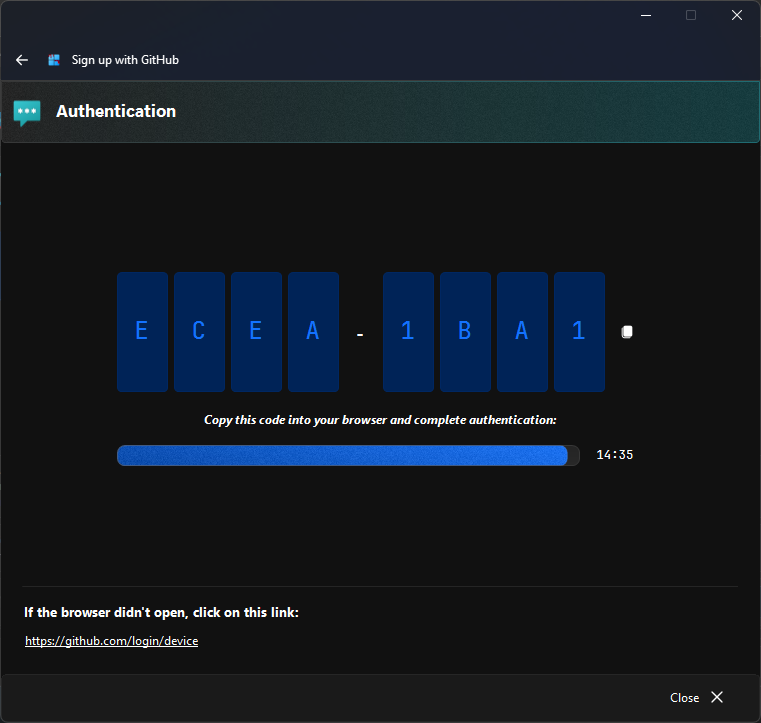
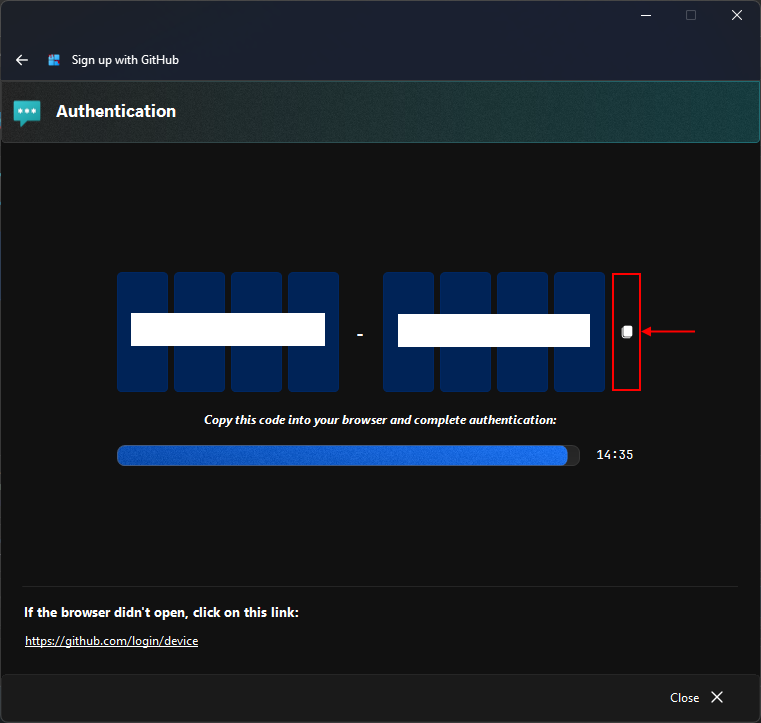
1.0.9.8

diff --git a/WinPaletter.Wiki/Sign-Up-GitHub.md b/WinPaletter.Wiki/Sign-Up-GitHub.md
@@ -120,20 +120,42 @@ After successful authentication:
 |Method 1|Method 2|
 |--------|--------|
 | Click on users button in main form and start sign up process | Open WinPaletter Store for themes, Click on users button in main form and start sign up process|
-|![Main](https://github.com/Abdelrhman-AK/WinPaletter/blob/master/WinPaletter.Wiki/Assets/ColorControlShape/shape.png?raw=true)
-|   |
+|![Main](https://github.com/Abdelrhman-AK/WinPaletter/blob/master/WinPaletter.Wiki/Assets/GitHub_SignUp/MainForm_User.png?raw=true) ![UsersDashboard](https://github.com/Abdelrhman-AK/WinPaletter/blob/master/WinPaletter.Wiki/Assets/GitHub_SignUp/Users_Dashboard.png?raw=true) | ![Store](https://github.com/Abdelrhman-AK/WinPaletter/blob/master/WinPaletter.Wiki/Assets/GitHub_SignUp/Store_UsersDashboard.png?raw=true) |
 
 2. Read the terms and click on `Sign up`
 3. Wait until a browser instance starts
+![Wait](https://github.com/Abdelrhman-AK/WinPaletter/blob/master/WinPaletter.Wiki/Assets/GitHub_SignUp/SignUp_Wait.png?raw=true)
 4. Select your targer account
+![SelectAccount](https://github.com/Abdelrhman-AK/WinPaletter/blob/master/WinPaletter.Wiki/Assets/GitHub_SignUp/Browser_ChooseAccount.png?raw=true)
+
 5. GitHub will require a code, it is provided by WinPaletter, copy it from this button.
+![AuthCode](https://github.com/Abdelrhman-AK/WinPaletter/blob/master/WinPaletter.Wiki/Assets/GitHub_SignUp/SignUp_AuthCode.png?raw=true)
+
 6. Paste it in browser and continue
 7. Read info and continue
+![Terms](https://github.com/Abdelrhman-AK/WinPaletter/blob/master/WinPaletter.Wiki/Assets/GitHub_SignUp/Browser_Auth.png?raw=true)
+
 8. `Optional` If you are protecting your account by 2-Factor Authentication, enter its code and continue.
+![2FA](https://github.com/Abdelrhman-AK/WinPaletter/blob/master/WinPaletter.Wiki/Assets/GitHub_SignUp/Browser_2FA.png?raw=true)
+
 9. Finally, your browser will tell you that you are connected and so WinPaletter.
+![Success](https://github.com/Abdelrhman-AK/WinPaletter/blob/master/WinPaletter.Wiki/Assets/GitHub_SignUp/Browser_Success.png?raw=true)
+![Success](https://github.com/Abdelrhman-AK/WinPaletter/blob/master/WinPaletter.Wiki/Assets/GitHub_SignUp/SignUp_Success.png?raw=true)
+
 10. You will find user name and avatar visible in Main form, an indication of loggin in.
+![MainFormAvatar](https://github.com/Abdelrhman-AK/WinPaletter/blob/master/WinPaletter.Wiki/Assets/GitHub_SignUp/MainForm_LoggedIn.png?raw=true)
+
 11. Evreytime you open WinPaletter, it will sign in automatically using credentials saved in Windows Credentials.
 
 ---
 
 ## Sign out:
+
+1. You can start by one method of these to sign out:
+
+|Method 1|Method 2|
+|--------|--------|
+| Click on users button in main form and start sign out process | Open WinPaletter Store for themes, Click on users button in main form and start sign out process|
+|![MainFormAvatar](https://github.com/Abdelrhman-AK/WinPaletter/blob/master/WinPaletter.Wiki/Assets/GitHub_SignUp/MainForm_LoggedIn.png?raw=true) ![UsersDashboard](https://github.com/Abdelrhman-AK/WinPaletter/blob/master/WinPaletter.Wiki/Assets/GitHub_SignUp/Users_Dashboard_SignOut.png?raw=true) | ![Store](https://github.com/Abdelrhman-AK/WinPaletter/blob/master/WinPaletter.Wiki/Assets/GitHub_SignUp/Store_UsersDashboard_SignOut.png?raw=true) |
+
+2. That is it. Windows credentials removed your GitHub account. A browser will open with a page that revokes access. Revoke WinPaletter manually.

diff --git a/WinPaletter.Wiki/_Sidebar.md b/WinPaletter.Wiki/_Sidebar.md
@@ -38,7 +38,7 @@
 - [For Developers](https://github.com/Abdelrhman-AK/WinPaletter/wiki/WinPaletter-Store-Developers)
 
 ## GitHub Manager (Within WinPaletter)
-- [Introduction](https://github.com/Abdelrhman-AK/WinPaletter/wiki/GitHub-Manager-‐-Introduction)
+- [Introduction](https://github.com/Abdelrhman-AK/WinPaletter/wiki/GitHub-Manager--Introduction)
 - Sign in\out GitHub using WinPaletter
 - [Use GitHub manager to manage and upload themes]: Coming soon
 
